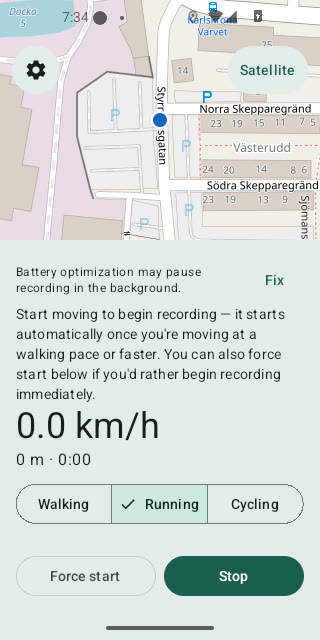
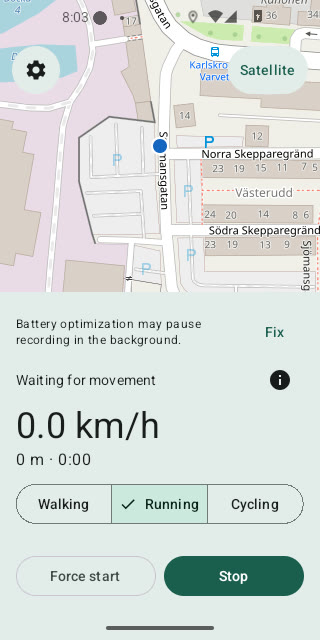
feat: collapse the waiting-for-movement text into an info dialog
The "Start moving to begin recording..." paragraph sat permanently in
Tracking's stats panel while waiting for movement, pushing the actual
stats (speed, distance, time) further down and making the panel read as
instructions first, numbers second.

Replaced it with a compact "Waiting for movement" line and an info icon
— tapping it opens the same explanation in a dialog, the same pattern
Home's own information icon already uses.

Fixes #172

Changed region(s): [[0.0, 0.0, 1.0, 0.625]]

diff --git a/android/app/src/main/java/com/github/tomasbjerre/wisp/ui/tracking/TrackingScreen.kt b/android/app/src/main/java/com/github/tomasbjerre/wisp/ui/tracking/TrackingScreen.kt
@@ -12,6 +12,7 @@ import androidx.compose.foundation.layout.padding
 import androidx.compose.foundation.layout.statusBarsPadding
 import androidx.compose.foundation.shape.CircleShape
 import androidx.compose.material.icons.Icons
+import androidx.compose.material.icons.filled.Info
 import androidx.compose.material.icons.filled.Settings
 import androidx.compose.material3.AlertDialog
 import androidx.compose.material3.Button
@@ -167,12 +168,7 @@ private fun TrackingStatsPanel(
         Column(modifier = Modifier.fillMaxWidth().navigationBarsPadding().padding(16.dp)) {
             PermissionAdvisories(permissions, notifications)
             if (state.isWaitingForMovement) {
-                Text(
-                    "Start moving to begin recording — it starts automatically once " +
-                        "you're moving at a walking pace or faster. You can also force " +
-                        "start below if you'd rather begin recording immediately.",
-                    style = MaterialTheme.typography.bodyMedium,
-                )
+                WaitingForMovementNotice()
             }
             TrackingStatLines(state, unit)
             ActivityTypeSection(state)
@@ -217,6 +213,41 @@ private fun PermissionAdvisories(
                 Text("Fix")
             }
         }
+    }
+}
+
+/**
+ * See specs/ui-flows.md#2-tracking-active-recording: what start gating means and how to skip
+ * it, collapsed to an info icon instead of a permanent paragraph, so the stats panel stays
+ * about the numbers, not instructions — tapping the icon shows the same explanation in a
+ * dialog.
+ */
+@Composable
+private fun WaitingForMovementNotice() {
+    var showInfo by remember { mutableStateOf(false) }
+    Row(modifier = Modifier.fillMaxWidth(), verticalAlignment = Alignment.CenterVertically) {
+        Text(
+            "Waiting for movement",
+            style = MaterialTheme.typography.bodyMedium,
+            modifier = Modifier.weight(1f),
+        )
+        IconButton(onClick = { showInfo = true }) {
+            Icon(Icons.Filled.Info, contentDescription = "About waiting for movement")
+        }
+    }
+    if (showInfo) {
+        AlertDialog(
+            onDismissRequest = { showInfo = false },
+            title = { Text("Waiting for movement") },
+            text = {
+                Text(
+                    "Start moving to begin recording — it starts automatically once " +
+                        "you're moving at a walking pace or faster. You can also force " +
+                        "start below if you'd rather begin recording immediately.",
+                )
+            },
+            confirmButton = { TextButton(onClick = { showInfo = false }) { Text("Close") } },
+        )
     }
 }
 

diff --git a/android/app/src/androidTest/java/com/github/tomasbjerre/wisp/ScreenshotTest.kt b/android/app/src/androidTest/java/com/github/tomasbjerre/wisp/ScreenshotTest.kt
@@ -1,6 +1,7 @@
 package com.github.tomasbjerre.wisp
 
 import androidx.compose.ui.test.junit4.createAndroidComposeRule
+import androidx.compose.ui.test.onAllNodesWithContentDescription
 import androidx.compose.ui.test.onAllNodesWithTag
 import androidx.compose.ui.test.onAllNodesWithText
 import androidx.compose.ui.test.onFirst
@@ -173,6 +174,22 @@ class ScreenshotTest {
         if (TrackingService.state.value.isWaitingForMovement) {
             composeRule.waitForIdle()
             screenshot("3-tracking-waiting")
+
+            // See specs/ui-flows.md#2-tracking-active-recording: the info icon next to
+            // "Waiting for movement". Still racing the same movement window as above, so
+            // only captured if the dialog's own trigger is actually still on screen.
+            val infoIconStillShowing =
+                composeRule
+                    .onAllNodesWithContentDescription("About waiting for movement")
+                    .fetchSemanticsNodes()
+                    .isNotEmpty()
+            if (infoIconStillShowing) {
+                composeRule.onNodeWithContentDescription("About waiting for movement").performClick()
+                composeRule.waitForIdle()
+                screenshot("tracking-waiting-info")
+                composeRule.onNodeWithText("Close").performClick()
+                composeRule.waitForIdle()
+            }
         }
 
         // Recording, with a real route on the map (specs/tracking.md#start-gating).

diff --git a/specs/ui-flows.md b/specs/ui-flows.md
@@ -133,10 +133,12 @@ screen while recording.
   Same controls either way; Continue works at any time.
 - While waiting for movement, **Pause** is replaced by **Force start**
   (see [Tracking](tracking.md#force-start)) — **Stop** stays in its
-  place, so it's always exactly two controls regardless of state. A line
-  of text above the controls explains that recording starts
-  automatically once moving, and that Force start begins it immediately
-  instead.
+  place, so it's always exactly two controls regardless of state. A
+  **"Waiting for movement"** line above the controls, with an
+  information icon next to it, opens a dialog explaining that recording
+  starts automatically once moving, and that Force start begins it
+  immediately instead — kept out of a permanently-visible paragraph so
+  the stats panel stays about the numbers, not instructions.
 - Tapping Stop finalizes the session immediately and navigates to that
   session's Detail screen — unless movement was never confirmed (see
   [Tracking](tracking.md#start-gating)), in which case the session is

diff --git a/docs/user-manual.md b/docs/user-manual.md
@@ -109,7 +109,8 @@ short steps first:
    moving at a walking pace or faster, recording begins automatically —
    no need to tap anything. Don't want to wait? Tap **Force start**,
    shown in place of Pause during this step, to begin recording right
-   away.
+   away. Tap the ⓘ icon next to "Waiting for movement" for this same
+   explanation, any time you want a reminder.
 
 Once recording is underway, the screen shows your route being drawn live
 on the map, along with your current speed, distance, and elapsed time:
